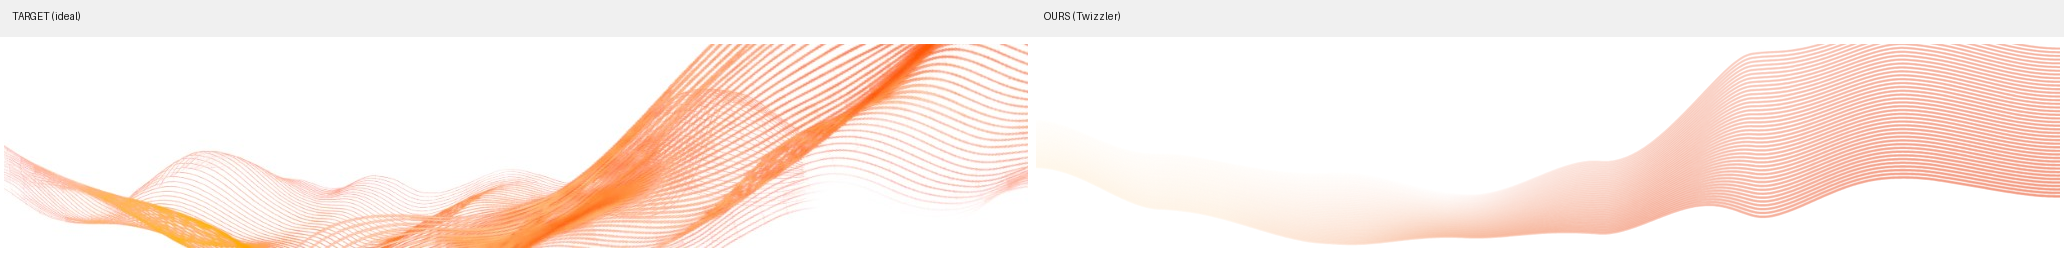
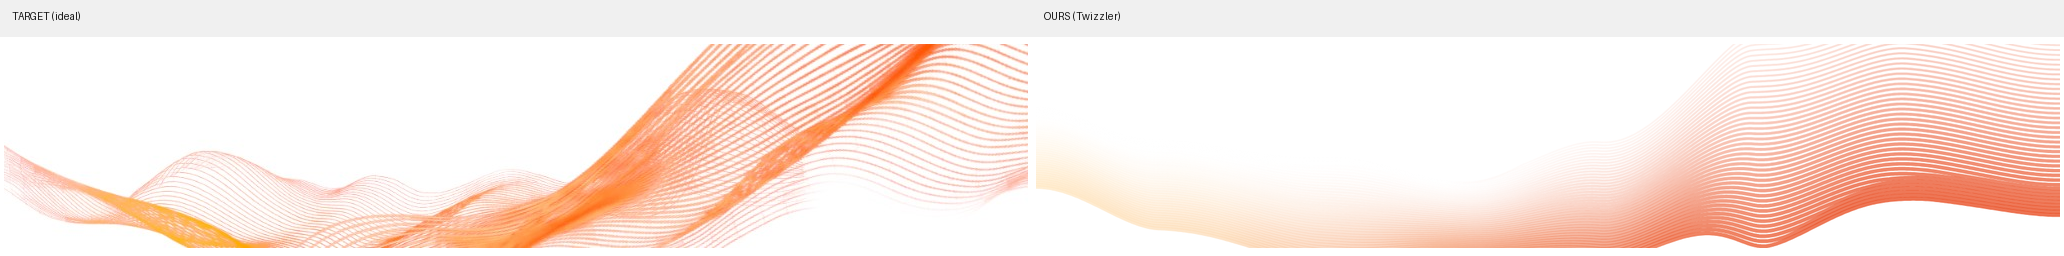
fix(lab): drive Twizzler nearness from fiber stack Z (#CF-16)
Across always sets camera depth so thickness, fog, and Y bias vary
across the ribbon — not only along X when face-on.

Changed region(s): [[0.4961, 0.1562, 1.0, 0.9688]]

diff --git a/apps/lab/src/twizzler.ts b/apps/lab/src/twizzler.ts
@@ -363,24 +363,23 @@ export function twizzlerColorT(xT: number): number {
 
 /**
  * Camera nearness 0..1 for a fiber at (across, xT).
- * Right edge pulls hard toward camera; twist maps across → Z.
+ * Across always encodes Z (fiber stack toward/away from camera).
+ * Right edge also pulls the whole ribbon forward.
  */
 export function twizzlerFiberNearness(across: number, xT: number, settings: TwizzlerSettings, time: number): number {
   const x = Math.max(0, Math.min(1, xT));
   const theta = twizzlerMarketingTwist(x, settings, time);
-  // Ribbon-face Z from twist (positive = toward camera).
-  const faceZ = across * Math.sin(theta);
-  // Strong along-path camera pull — right edge comes forward.
-  const alongNear = Math.pow(smoothstep(0.28, 1, x), 1.05);
+  const stackZ = across; // -1..1 always varies depth across the ribbon
+  const twistZ = across * Math.sin(theta);
+  const alongNear = Math.pow(smoothstep(0.22, 1, x), 1.0);
   const depthBoost = twizzlerNearness(twizzlerDepthScale(x, settings), settings);
-  const near = 0.12 + 0.28 * faceZ + 0.52 * alongNear + 0.22 * depthBoost;
+  const near = 0.18 + 0.32 * stackZ + 0.12 * twistZ + 0.48 * alongNear + 0.18 * depthBoost;
   return Math.max(0, Math.min(1, near));
 }
 
 /** Fog blend 0..1 toward background (white). Far fibers dissolve into the stage. */
 export function twizzlerFogAmount(nearness: number): number {
-  // Aggressive far fade; near stays clear.
-  return Math.pow(1 - nearness, 1.15);
+  return Math.pow(1 - nearness, 1.05);
 }
 
 /** Blend ribbon hex into white by fog amount (cheap distance fade). */
@@ -390,7 +389,7 @@ export function twizzlerFogColor(hex: string, fog: number, backgroundHex = "#fff
 
 /** Stroke width scale from nearness — thick toward camera. */
 export function twizzlerStrokeWidthScale(nearness: number): number {
-  return 0.35 + 1.9 * nearness;
+  return 0.3 + 2.4 * nearness;
 }
 
 /**
@@ -398,8 +397,7 @@ export function twizzlerStrokeWidthScale(nearness: number): number {
  * Near (camera) → lower on canvas (+Y); far → higher (−Y). Smooth, no chatter.
  */
 export function twizzlerDepthYBias(nearness: number, pixelHeight: number, depthLift: number): number {
-  // nearness 1 → +Y (down / lower); nearness 0 → -Y (up / higher)
-  return (nearness - 0.5) * pixelHeight * (0.16 + depthLift * 0.14);
+  return (nearness - 0.5) * pixelHeight * (0.22 + depthLift * 0.2);
 }
 
 export type TwizzlerLine = {
